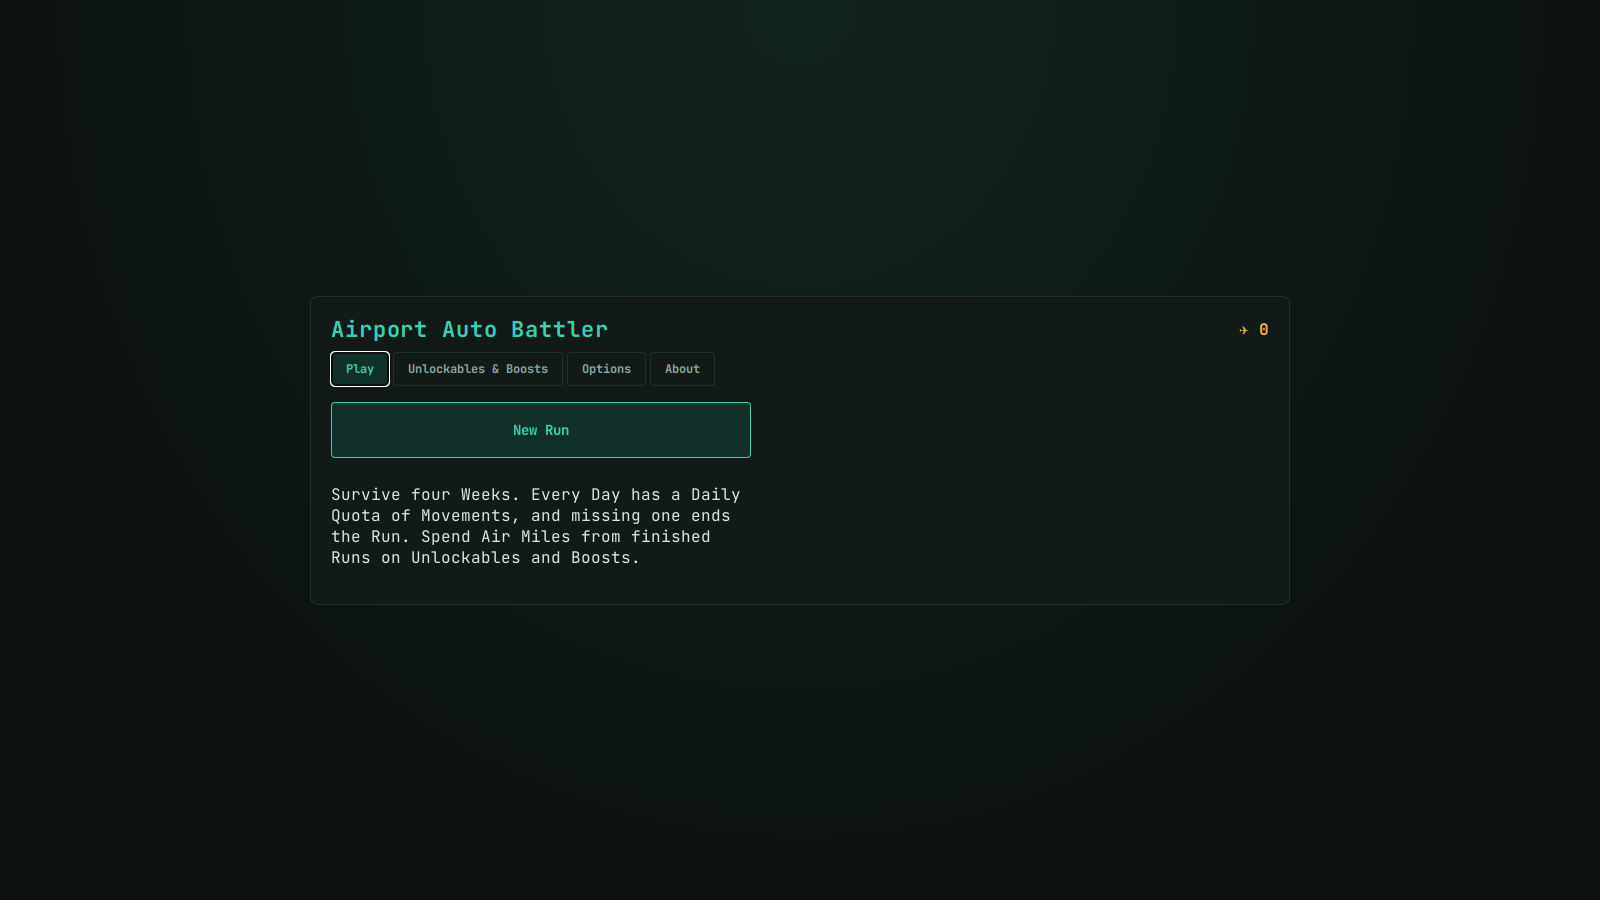
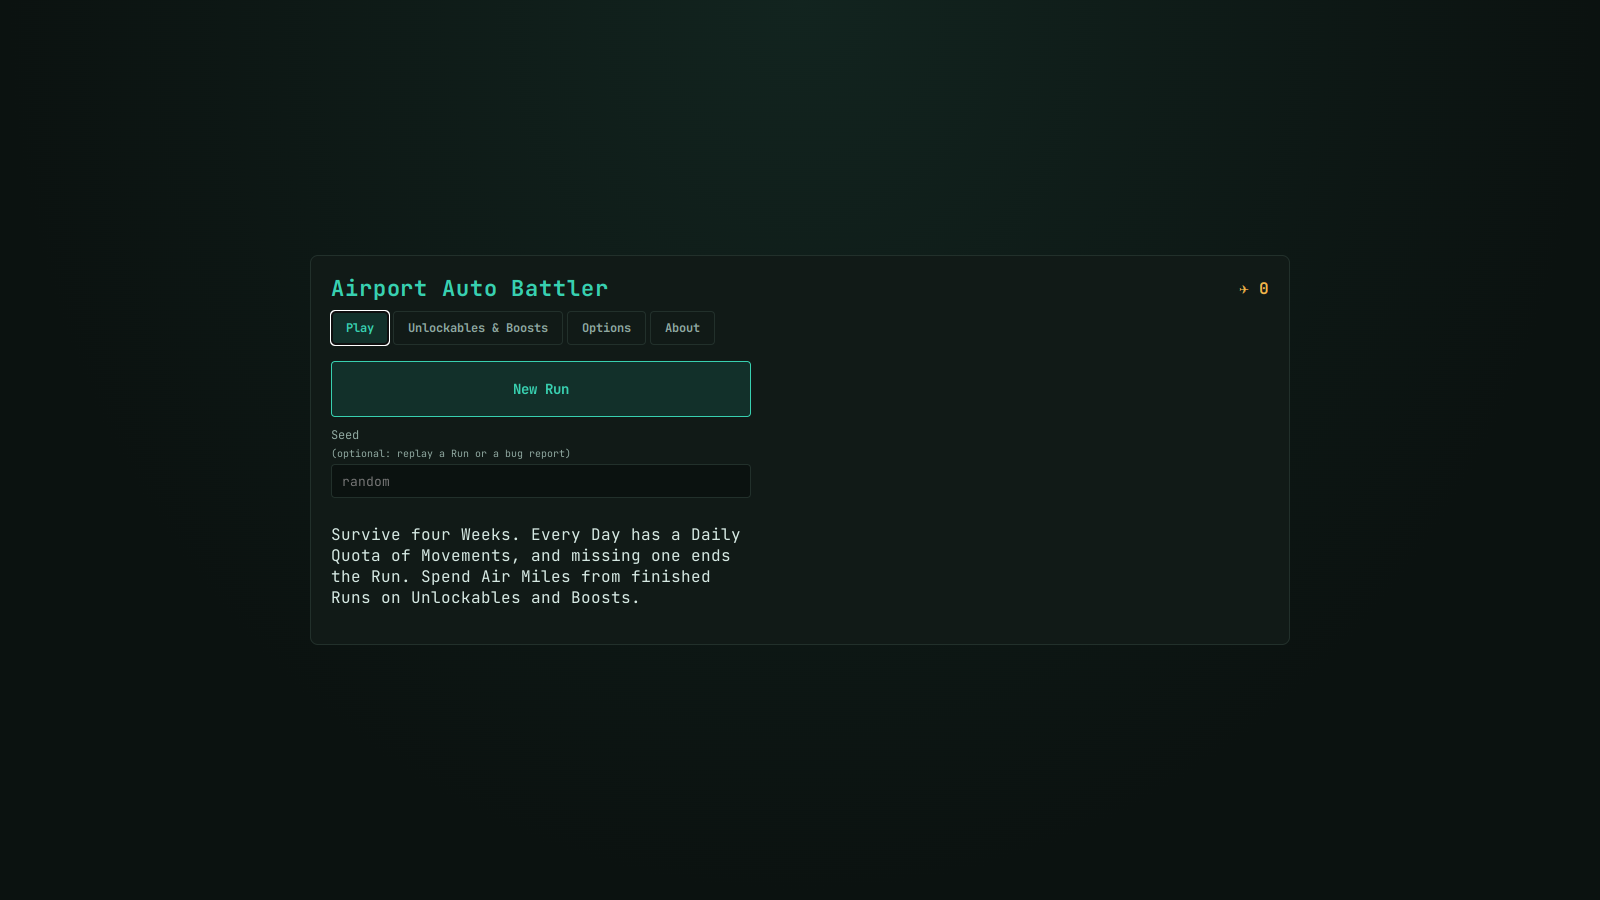
Show the Run's seed and copy bug-report info (#45)
* Show the Run's seed and copy bug-report info

The seed is shown in Plan Mode, the Day report, the Score Screen and the Live
Day title tooltip; clicking it copies one line (seed, Week, Day, build) for
bug reports. New Run in the Main Menu takes an optional seed to replay a
Run. Uncaught errors show a notice and copy the info with the error. Builds
carry their commit id (BUILD_ID) so reports name the exact version.

Claude-Session: https://claude.ai/code/session_017hX3Qn5kxjmg8hzks2eA6J

* Update README screenshots [skip ci]

---------

Changed region(s): [[0.1875, 0.3111, 0.4688, 0.6844]]

diff --git a/src/ui/mainMenu.ts b/src/ui/mainMenu.ts
@@ -1,5 +1,5 @@
 import { buyBoost, buyUnlockable, metaShop, type BoostId, type MetaState, type ShopItem, type UnlockableId } from '../sim/meta';
-import type { RunState } from '../sim/run';
+import { parseSeed, type RunState } from '../sim/run';
 import type { Options } from '../sim/save';
 import { dayName } from './dayEnd';
 
@@ -10,7 +10,8 @@ type Tab = 'play' | 'shop' | 'options' | 'about';
 
 export interface MainMenuHandlers {
   onContinue(): void;
-  onNewRun(): void;
+  /** Starts a Run; with a seed to replay a particular Run. */
+  onNewRun(seed: number | null): void;
   onMeta(meta: MetaState): void;
   onOptions(options: Options): void;
   onResetProgress(): void;
@@ -42,6 +43,7 @@ export function showMainMenu(root: HTMLElement, state: { meta: MetaState; saved:
         <div class="play">
           ${saved ? `<button type="button" class="primary big" data-go="continue">Continue<small>${saved.status === 'won' ? 'Won Run' : `Next: ${dayName(saved.week, saved.weekday)}`}${saved.endless ? ' · Endless' : ''} · ${money(saved.money)} · ${saved.stats.daysSurvived} Days survived</small></button>` : ''}
           <button type="button" class="${saved ? 'secondary' : 'primary'} big" data-go="new">New Run${saved ? '<small>Replaces the saved Run</small>' : ''}</button>
+          <label class="seed-input">Seed <small>(optional: replay a Run or a bug report)</small><input type="text" inputmode="numeric" id="seed-input" placeholder="random" autocomplete="off"></label>
           <p class="lead">Survive four Weeks. Every Day has a Daily Quota of Movements, and missing one ends the Run. Spend Air Miles from finished Runs on Unlockables and Boosts.</p>
         </div>`,
       shop: () => `
@@ -67,6 +69,8 @@ export function showMainMenu(root: HTMLElement, state: { meta: MetaState; saved:
             <li><b>Money</b>: aircraft pay when they unload and when they take off. Upkeep is paid at midnight. You may go into Debt, but then you can't build.</li>
             <li><b>Between Runs</b>: the Air Miles you earn buy Unlockables (buildings and features) and Boosts.</li>
           </ol>
+          <h3>Bug reports</h3>
+          <p class="lead">Every Run has a seed (shown in Plan Mode, the Day report and at the end of a Run). Click it to copy the bug-report info (seed, Week, Day, build) and include it with what happened. Typing the seed under New Run replays the same Run.</p>
           <h3>About</h3>
           <p class="lead">Airport Auto Battler: a roguelite about running an airport. Designed by Felix, built with Claude. Aircraft art and callsigns are fictional flavour.</p>
         </div>`,
@@ -92,8 +96,10 @@ export function showMainMenu(root: HTMLElement, state: { meta: MetaState; saved:
     }
     const go = b.dataset.go;
     if (go === 'continue' || go === 'new') {
+      const seed = parseSeed(el.querySelector<HTMLInputElement>('#seed-input')?.value);
       el.remove();
-      (go === 'continue' ? handlers.onContinue : handlers.onNewRun)();
+      if (go === 'continue') handlers.onContinue();
+      else handlers.onNewRun(seed);
       return;
     }
     if (go === 'reset') confirmReset = true;

diff --git a/src/main.ts b/src/main.ts
@@ -4,7 +4,7 @@ import { drawAirfield, fitToScreen } from './render/airfield';
 import { FlightLayer } from './render/flights';
 import { advance, formatClock, isDayOver, type Speed } from './sim/clock';
 import { buyUpgrade } from './sim/plan';
-import { continueEndless, dayPlan, dayTwists, endDay, setBonusTwist, startLiveDay, startRun, type RunState } from './sim/run';
+import { continueEndless, dayPlan, dayTwists, endDay, runInfo, setBonusTwist, startLiveDay, startRun, type RunState } from './sim/run';
 import { acknowledgeAlert, daySettled, finishDay, runTo, useAction, type Simulation } from './sim/simulation';
 import { dayName, showScoreScreen } from './ui/dayEnd';
 import { mountLiveDay } from './ui/liveDay';
@@ -15,6 +15,7 @@ import { awardRun } from './sim/meta';
 import { showMainMenu } from './ui/mainMenu';
 import { showDayReport } from './ui/dayReport';
 import { showNotice } from './ui/resume';
+import { BUILD, copyText } from './ui/seed';
 
 // `?seed=123` makes every New Run use that seed (used for README screenshots and bug reports).
 const fixedSeed = Number(new URLSearchParams(location.search).get('seed'));
@@ -81,7 +82,7 @@ async function start(): Promise<void> {
     ended = false;
     const twists = dayTwists(run);
     dayLabel.textContent = dayName(run.week, run.weekday) + (run.endless ? ' · Endless' : '') + twists.map((t) => ` · ${t.name}`).join('');
-    dayLabel.title = twists.map((t) => `${t.name}: ${t.description}`).join('\n');
+    dayLabel.title = [...twists.map((t) => `${t.name}: ${t.description}`), runInfo(run, BUILD)].join('\n');
     mountAirfield();
   };
   const openPlan = () => {
@@ -122,6 +123,15 @@ async function start(): Promise<void> {
     });
   };
 
+  // Something broke: tell the Player, with the bug-report info to send along.
+  const reportError = (message: string) => {
+    const info = runInfo(run, BUILD);
+    showNotice(appEl, `Something went wrong: ${message}. Bug-report info (copied): ${info}`);
+    void copyText(`${info}\nError: ${message}`);
+  };
+  window.addEventListener('error', (e) => reportError(e.message));
+  window.addEventListener('unhandledrejection', (e) => reportError(String((e as PromiseRejectionEvent).reason)));
+
   const openMenu = () => {
     ended = true;
     const saved = loadRun(store);
@@ -133,9 +143,9 @@ async function start(): Promise<void> {
         if (run.status === 'won') showScore();
         else openPlan();
       },
-      onNewRun() {
+      onNewRun(seed) {
         clearRun(store);
-        run = startRun(newSeed(), meta);
+        run = startRun(seed ?? newSeed(), meta);
         openPlan();
       },
       onMeta(next) {

diff --git a/src/ui/planMode.ts b/src/ui/planMode.ts
@@ -4,6 +4,7 @@ import { FAMILY_NAME, type Twist } from '../sim/twists';
 import { WEEKDAY_NAMES } from '../sim/schedule';
 import { mountBuildMode, type BuildModeView } from './buildMode';
 import { dayName } from './dayEnd';
+import { seedButton, wireSeedButtons } from './seed';
 
 const esc = (s: string) => s.replace(/[&<>"]/g, (c) => ({ '&': '&amp;', '<': '&lt;', '>': '&gt;', '"': '&quot;' })[c]!);
 const money = (n: number) => `${n < 0 ? '−' : ''}$${Math.abs(Math.round(n)).toLocaleString('en-US')}`;
@@ -29,6 +30,7 @@ export function showPlanMode(root: HTMLElement, initial: RunState, handlers: Pla
   el.setAttribute('aria-modal', 'true');
   el.setAttribute('aria-label', 'Plan Mode');
   root.appendChild(el);
+  wireSeedButtons(el, () => run);
   let tab: 'overview' | 'build' = 'overview';
   let build: BuildModeView | null = null;
 
@@ -52,6 +54,7 @@ export function showPlanMode(root: HTMLElement, initial: RunState, handlers: Pla
           <button type="button" role="tab" data-tab="build" aria-selected="${tab === 'build'}">Build</button>
         </div>
         <span class="next">${run.endless ? '<b class="endless">Endless</b> · ' : ''}Next: <b>${dayName(run.week, run.weekday)}</b>${plan.weekday === 6 ? ' · Boss Day' : plan.weekday === 5 ? ' · Rush Day' : ''}</span>
+        ${seedButton(run)}
         <span class="spacer"></span>
         <span class="money${run.inDebt ? ' debt' : ''}" title="Upkeep ${money(upkeep(run))} per Day, paid at 24:00">${money(run.money)}</span>
         <button type="button" class="start">Start Day ▶</button>

diff --git a/src/ui/seed.ts b/src/ui/seed.ts
@@ -1,0 +1,39 @@
+import { runInfo, type RunState } from '../sim/run';
+
+/** The build id (commit or date), injected at build time. */
+export const BUILD = typeof __BUILD__ === 'string' ? __BUILD__ : 'dev';
+
+/** Copies text to the clipboard; resolves false when the browser refuses. */
+export async function copyText(text: string): Promise<boolean> {
+  try {
+    await navigator.clipboard.writeText(text);
+    return true;
+  } catch {
+    const area = document.createElement('textarea');
+    area.value = text;
+    document.body.appendChild(area);
+    area.select();
+    const ok = document.execCommand('copy');
+    area.remove();
+    return ok;
+  }
+}
+
+/** A small "Seed 12345 ⧉" button; clicking copies the bug-report info for the Run. */
+export function seedButton(run: RunState): string {
+  return `<button type="button" class="seed-chip" data-copy-seed title="Copy bug-report info: ${runInfo(run, BUILD)}">Seed ${run.seed} ⧉</button>`;
+}
+
+/** Wires every seed button inside `root` (call after rendering). */
+export function wireSeedButtons(root: HTMLElement, run: () => RunState): void {
+  root.addEventListener('click', (e) => {
+    const b = (e.target as HTMLElement).closest<HTMLButtonElement>('button[data-copy-seed]');
+    if (!b) return;
+    const text = runInfo(run(), BUILD);
+    void copyText(text).then((ok) => {
+      const before = b.textContent;
+      b.textContent = ok ? 'Copied ✓' : text;
+      if (ok) setTimeout(() => (b.textContent = before), 1500);
+    });
+  });
+}

diff --git a/src/sim/run.ts b/src/sim/run.ts
@@ -4,7 +4,7 @@
  */
 import { createLayout, startingAirport, type AirportLayout, type Structure, type SupportRole } from './layout';
 import { mixSeed } from './random';
-import { planDay, type DayPlan } from './schedule';
+import { WEEKDAY_NAMES, planDay, type DayPlan } from './schedule';
 import { FAMILIES, describeTwist, simulationEffects, twistsFor, type Twist } from './twists';
 import { createRandom } from './random';
 import { emptyMeta, modifiersFrom, type MetaState, type RunModifiers } from './meta';
@@ -334,4 +334,15 @@ function bonusTwistFor(seed: number, week: number, weekday: number, existing: re
   const rng = createRandom(mixSeed(seed, week, weekday, 0xb0b));
   const families = FAMILIES.filter((f) => !existing.some((t) => t.family === f));
   return describeTwist({ family: rng.pick(families.length ? families : FAMILIES), severity: Math.min(3, week + 1) }, false);
+}
+
+/** One line that pins down where a Run is, for bug reports: replay with the same seed (`?seed=` or the Main Menu). */
+export function runInfo(run: RunState, build: string): string {
+  return `Seed ${run.seed} · Week ${run.week} · ${WEEKDAY_NAMES[run.weekday]} · Day ${run.dayIndex + 1}${run.endless ? ' · Endless' : ''} · build ${build}`;
+}
+
+/** Reads a seed typed by the Player ("42", "Seed 42"); null when there is none. */
+export function parseSeed(text: string | null | undefined): number | null {
+  const n = Number((text ?? '').replace(/[^0-9]/g, ''));
+  return Number.isSafeInteger(n) && n > 0 ? n : null;
 }

diff --git a/src/ui/dayEnd.ts b/src/ui/dayEnd.ts
@@ -2,6 +2,7 @@ import type { RunState } from '../sim/run';
 import { airMiles, runScore } from '../sim/run';
 import { WEEKDAY_NAMES } from '../sim/schedule';
 import { daySections } from './dayReport';
+import { seedButton, wireSeedButtons } from './seed';
 
 const money = (n: number) => `${n < 0 ? '−' : ''}$${Math.abs(Math.round(n)).toLocaleString('en-US')}`;
 
@@ -40,6 +41,7 @@ export function showScoreScreen(root: HTMLElement, run: RunState, handlers: Scor
         ['Score', runScore(run).toLocaleString('en-US')],
         ['Air Miles earned', `✈ ${airMiles(run).toLocaleString('en-US')}`],
       ])}</dl></section>
+      <p class="seed-line">${seedButton(run)} <small>Play this Run again with the same seed from the Main Menu, or send it with a bug report.</small></p>
       <div class="score-buttons">
         ${won ? '<button type="button" class="primary" data-act="endless">Continue in Endless Mode</button>' : ''}
         <button type="button" class="${won ? 'secondary' : 'primary'}" data-act="finish">Finish Run</button>
@@ -53,5 +55,6 @@ export function showScoreScreen(root: HTMLElement, run: RunState, handlers: Scor
     else handlers.onFinish();
   });
   root.appendChild(el);
-  el.querySelector<HTMLButtonElement>('button')!.focus();
+  wireSeedButtons(el, () => run);
+  el.querySelector<HTMLButtonElement>('.score-buttons button')!.focus();
 }

diff --git a/src/ui/dayReport.ts b/src/ui/dayReport.ts
@@ -1,6 +1,7 @@
 import { dayTwists, type RunState } from '../sim/run';
 import { formatClock } from '../sim/clock';
 import { dayName } from './dayEnd';
+import { seedButton, wireSeedButtons } from './seed';
 
 const esc = (s: string) => s.replace(/[&<>"]/g, (c) => ({ '&': '&amp;', '<': '&lt;', '>': '&gt;', '"': '&quot;' })[c]!);
 const money = (n: number) => `${n < 0 ? '−' : ''}$${Math.abs(Math.round(n)).toLocaleString('en-US')}`;
@@ -58,12 +59,14 @@ export function showDayReport(root: HTMLElement, run: RunState, onContinue: () =
     <div class="card report">
       ${daySections(run)}
       <p class="lead">Next: <b>${dayName(run.week, run.weekday)}</b>${run.weekday === 6 ? ' · Boss Day' : run.weekday === 5 ? ' · Rush Day' : ''}${twists.map((t) => ` · ${esc(t.name)}`).join('')}</p>
+      <p class="seed-line">${seedButton(run)} <small>Found a bug? Copy this and send it along.</small></p>
       <button type="button" class="primary">Plan the next Day</button>
     </div>`;
-  el.querySelector('button')!.addEventListener('click', () => {
+  wireSeedButtons(el, () => run);
+  el.querySelector('button.primary')!.addEventListener('click', () => {
     el.remove();
     onContinue();
   });
   root.appendChild(el);
-  el.querySelector<HTMLButtonElement>('button')!.focus();
+  el.querySelector<HTMLButtonElement>('button.primary')!.focus();
 }

diff --git a/src/style.css b/src/style.css
@@ -288,3 +288,13 @@ kbd { padding: 0 4px; border: 1px solid var(--line); border-radius: 3px; font: 1
 .alert-banner[hidden] { display: none; }
 .report dt.sub { grid-column: 1 / -1; }
 .report-cols dd { white-space: nowrap; }
+
+/* Seed / bug-report info */
+.seed-chip { height: 26px; padding: 0 8px; border: 1px solid var(--line); border-radius: 4px; background: transparent; color: var(--mute); font: 11px var(--mono); cursor: pointer; }
+.seed-chip:hover, .seed-chip:focus-visible { color: var(--text); border-color: var(--teal); outline: none; }
+.seed-line { display: flex; align-items: center; gap: 8px; margin: 10px 0; }
+.seed-line small { color: var(--mute); font-size: 11px; }
+.seed-input { display: grid; gap: 4px; font-size: 12px; color: var(--mute); }
+.seed-input small { font-size: 10px; }
+.seed-input input { height: 34px; padding: 0 10px; border: 1px solid var(--line); border-radius: 4px; background: var(--bg); color: var(--text); font: 13px var(--mono); }
+.notice { white-space: normal; word-break: break-word; }

diff --git a/src/sim/run.test.ts b/src/sim/run.test.ts
@@ -108,3 +108,17 @@ describe('Day report', () => {
     for (const h of r.highlights) expect(h.callsign.length).toBeGreaterThan(0);
   });
 });
+
+describe('Seed and bug-report info', () => {
+  it('describes where a Run is, so a bug can be replayed', async () => {
+    const { runInfo, parseSeed } = await import('./run');
+    const run = { ...startRun(123456), week: 2, weekday: 1, dayIndex: 8 };
+    expect(runInfo(run, 'abc1234')).toBe('Seed 123456 · Week 2 · Tue · Day 9 · build abc1234');
+    expect(runInfo({ ...run, endless: true }, 'abc1234')).toContain('Endless');
+    expect(parseSeed(' 42 ')).toBe(42);
+    expect(parseSeed('Seed 42')).toBe(42);
+    expect(parseSeed('')).toBe(null);
+    expect(parseSeed('abc')).toBe(null);
+    expect(parseSeed('0')).toBe(null);
+  });
+});

diff --git a/vite.config.ts b/vite.config.ts
@@ -1,6 +1,10 @@
 import { defineConfig } from 'vitest/config';
 
+// Build id shown in bug-report info: the commit (CI passes BUILD_ID / GITHUB_SHA), else the build date.
+const build = (process.env.BUILD_ID || process.env.GITHUB_SHA || '').slice(0, 7) || new Date().toISOString().slice(0, 10);
+
 export default defineConfig({
+  define: { __BUILD__: JSON.stringify(build) },
   test: {
     include: ['src/**/*.test.ts'],
   },

diff --git a/src/build.d.ts b/src/build.d.ts
@@ -1,0 +1,2 @@
+/** Commit or date of this build, set by vite.config.ts. */
+declare const __BUILD__: string;
